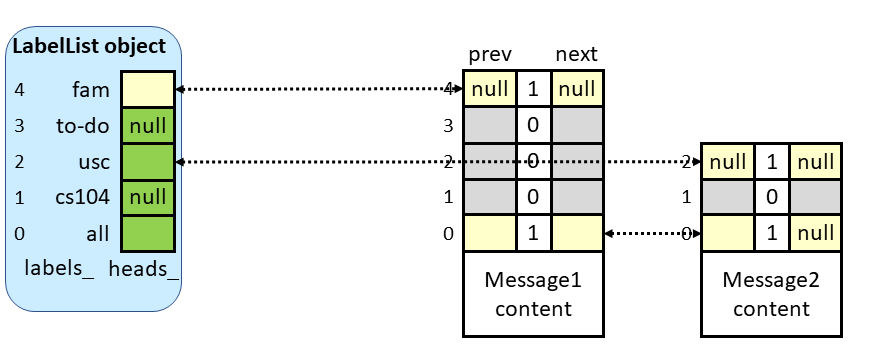
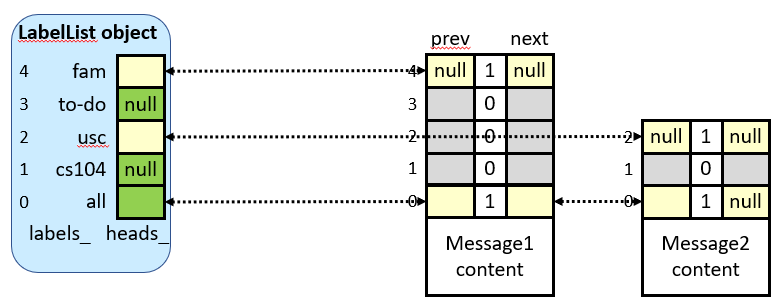
up

Changed region(s): [[0.0, 0.0297, 1.0, 0.9802]]

diff --git a/_includes/writeups/labellist.md b/_includes/writeups/labellist.md
@@ -2,9 +2,9 @@
 
 ### How To Approach This Assignment
 
-We use this homework not just as a coding exercise but to teach aspects of C++, object-oriented design, and rationale for certain data structure choices.  Several of these aspects are discussed in the Motivation and Background Information sections.  Links to other examples or reference material are often provided. Take time to consider these, read more on your own, and ask questions. We recommend you read through the entire assignment once or twice before even considering code (though you can look at the skeleton files, especially the header file for reference).  
+We use this homework not just as a coding exercise but to teach aspects of C++, object-oriented design, and rationale for certain data structure choices.  Several of these aspects are discussed in the Motivation and Background Information sections.  Links to other examples or reference material are often provided. Take time to consider these, read more on your own, and ask questions. We recommend you read through the entire assignment once or twice before even considering writing code (though you can look at the skeleton files, especially the header file for reference).  
 
-**** Layout an approach to incremental implementation and testing.
+In addition, we suggest you an **incremental** coding/test approach. Avoid the temptation to write the all the code at once. Instead, write one portion (feature), compile, and test it before moving on to the next.  In this way, dealing with compile and debugging errors becomes MUCH more manageable and by committing/pushing your code you can have snapshots of working features.
 
 ### Introduction
 
@@ -12,17 +12,25 @@ This exercise will build your linked list skills and confidence and ability in u
 
 <img src="{{site.baseurl}}/homework/img/labellist.png" alt="drawing" width="100%" height="auto" id="responsive-image"/>
 
-New messages are always added to the end of the `all` list. Once added, they can be labelled or unlabelled, as desired.  Messages can also be deleted (removed) permanently.  New labels need not be created explicitly by the user, but the first time a label is applied to a message, a new list for that label should be created and the message will added to that new list.  For example, suppose a new label `fam` (short for `family`) is applied to message 1.  `fam` should be added to the list of labels and a new head pointer should be added to the `heads_` list.  The index (i.e. `4` in the diagram below) of this new label and head pointer should now be used as the index of the **next** and **prev** pointer for this label in each member message's `next_` and `prev_` lists.  This will require resizing those vectors in the message node. (Note that only member messages need to have their next/previous vectors resized, while  messages that are not a member of the new label need not be modified).
+*Note: the `1` or `0` in the message nodes is a Boolean indicate membership in a given label's list.*
+
+New messages are always added to the end of the `all` list. Once added, they can be labelled or unlabelled, as desired.  Messages can also be deleted (removed) permanently.  New labels need not be created explicitly by the user, but the first time a label is applied to a message, a new list for that label should be created and the message will added to that new list.  For example, suppose a new label `fam` (short for `family`) is applied to message 1.  `fam` should be added to the list of labels and a new head pointer should be added to the `heads_` list.  The index (i.e. `4` in the diagram below) of this new label and head pointer should now be used as the index of the **next** and **prev** pointer for this label in each member message's `next_` and `prev_` lists.  This will require resizing those vectors (of next and prev pointers) in the message node. (Note that only member messages need to have their next/previous vectors resized, while  messages that are not a member of the new label need not be modified).
+
+*Effects of adding the label `fam` to message 1:*
 
 <img src="{{site.baseurl}}/homework/img/labellist-label.png" alt="drawing" width="100%" height="auto" id="responsive-image"/>
 
 
 When a message is unlabeled, it is simply removed from the corresponding list.  
 
+*Effects of unlabeling `usc` from message 0:*
+
 <img src="{{site.baseurl}}/homework/img/labellist-unlabel.png" alt="drawing" width="100%" height="auto" id="responsive-image"/>
 
 
 Removing a message should delete the entire message node, first unlinking it from all lists of which it is a member.
+
+*Effects of removing message 0:*
 
 <img src="{{site.baseurl}}/homework/img/labellist-remove.png" alt="drawing" width="100%" height="auto" id="responsive-image"/>
 

diff --git a/_includes/writeups/git-1.md b/_includes/writeups/git-1.md
@@ -1,6 +1,6 @@
-Carefully review and implement the steps discussed in [Lab1]({{site.url}}/labs/lab01.html). Then, answer the following questions:
+Carefully review and implement the steps discussed in [Lab1]({{site.url}}/labs/lab1/). Then, answer the following questions:
 
-**Continue your answers to this question in the file name `hw1.txt`**
+**Continue your answers to this question in the file name `hw1.txt` in your `hw-username/{{page.hwpath}}` folder.**
 
 #### Part (a): 
 When cloning a Git repo, which of the following should you avoid:
